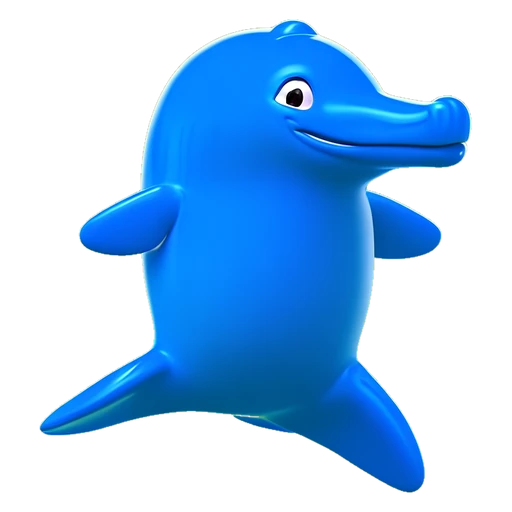
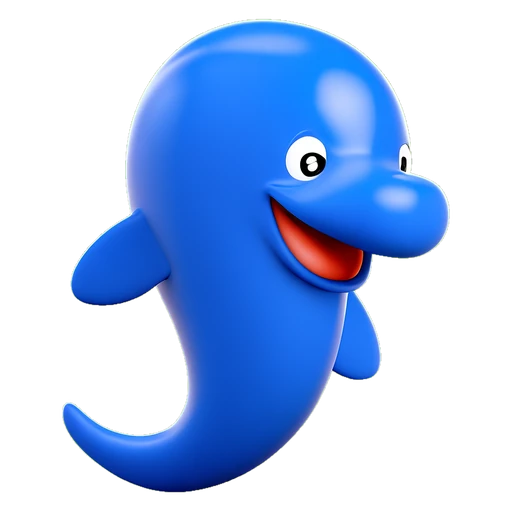
2.4.1: banco de metas de acción: coral y corazón con manos, delfín y pulgar nuevos, sin pizza

diff --git a/src/ectok_server.py b/src/ectok_server.py
@@ -28,7 +28,7 @@ from http.server import BaseHTTPRequestHandler, ThreadingHTTPServer
 from pathlib import Path
 from urllib.parse import parse_qs, unquote, urlsplit
 
-APP_VERSION = "2.4.0"
+APP_VERSION = "2.4.1"
 
 try:  # lo genera windows/build.ps1
     from ectok_build import BUILD_DATE  # type: ignore[import-not-found]

diff --git a/CHANGELOG.md b/CHANGELOG.md
@@ -1,9 +1,12 @@
 # Cambios de EC-Tok
 
+## 2.4.1
+- 🎯 Banco de Metas de acción: nuevas **Coral** y **Corazón con manos**; delfín y «me gusta» mejorados; se quitó la pizza. Ahora son 61 imágenes. Para un regalo nuevo o que no esté en el banco usa la **caja de regalo** con tu texto (ej. «340 Coins - Baile»).
+
 ## 2.4.0 — 🎯 Metas de acción
 - **🎯 Metas de acción** (en «Metas y top»): una lista fija de hasta **10** cosas que haces en tu live, cada una con **imagen y texto**, por ejemplo «🌌 Baile con canto», «🪟 Canto canción norteña», «🐶 Como huevo crudo». No se mueven ni cuentan nada: se quedan en pantalla, como un cintillo.
   - Dos diseños: **imagen y texto al lado** o **imagen arriba y texto abajo** (tipo etiqueta), con título opcional y tamaño.
-  - **Banco de 60 imágenes propias de EC-Tok en HD** (rosa, corazón, galaxia, ventana cósmica, corgi, león, corona, dona, taco…). Son originales, no las de TikTok, y vienen incluidas.
+  - **Banco de imágenes propias de EC-Tok en HD** (rosa, corazón, galaxia, ventana cósmica, corgi, león, corona, dona, taco…). Son originales, no las de TikTok, y vienen incluidas.
   - **Tus propias imágenes**: «📂 Agregar mis imágenes…» (PNG, WebP, JPG o GIF).
   - Nueva dirección para LIVE Studio / OBS: **🎯 Metas de acción** (antes de 🌟 Especiales).
 - 🔄 Al abrir la ventana, la barra de «versión nueva» aparece en cuanto GitHub responde.
